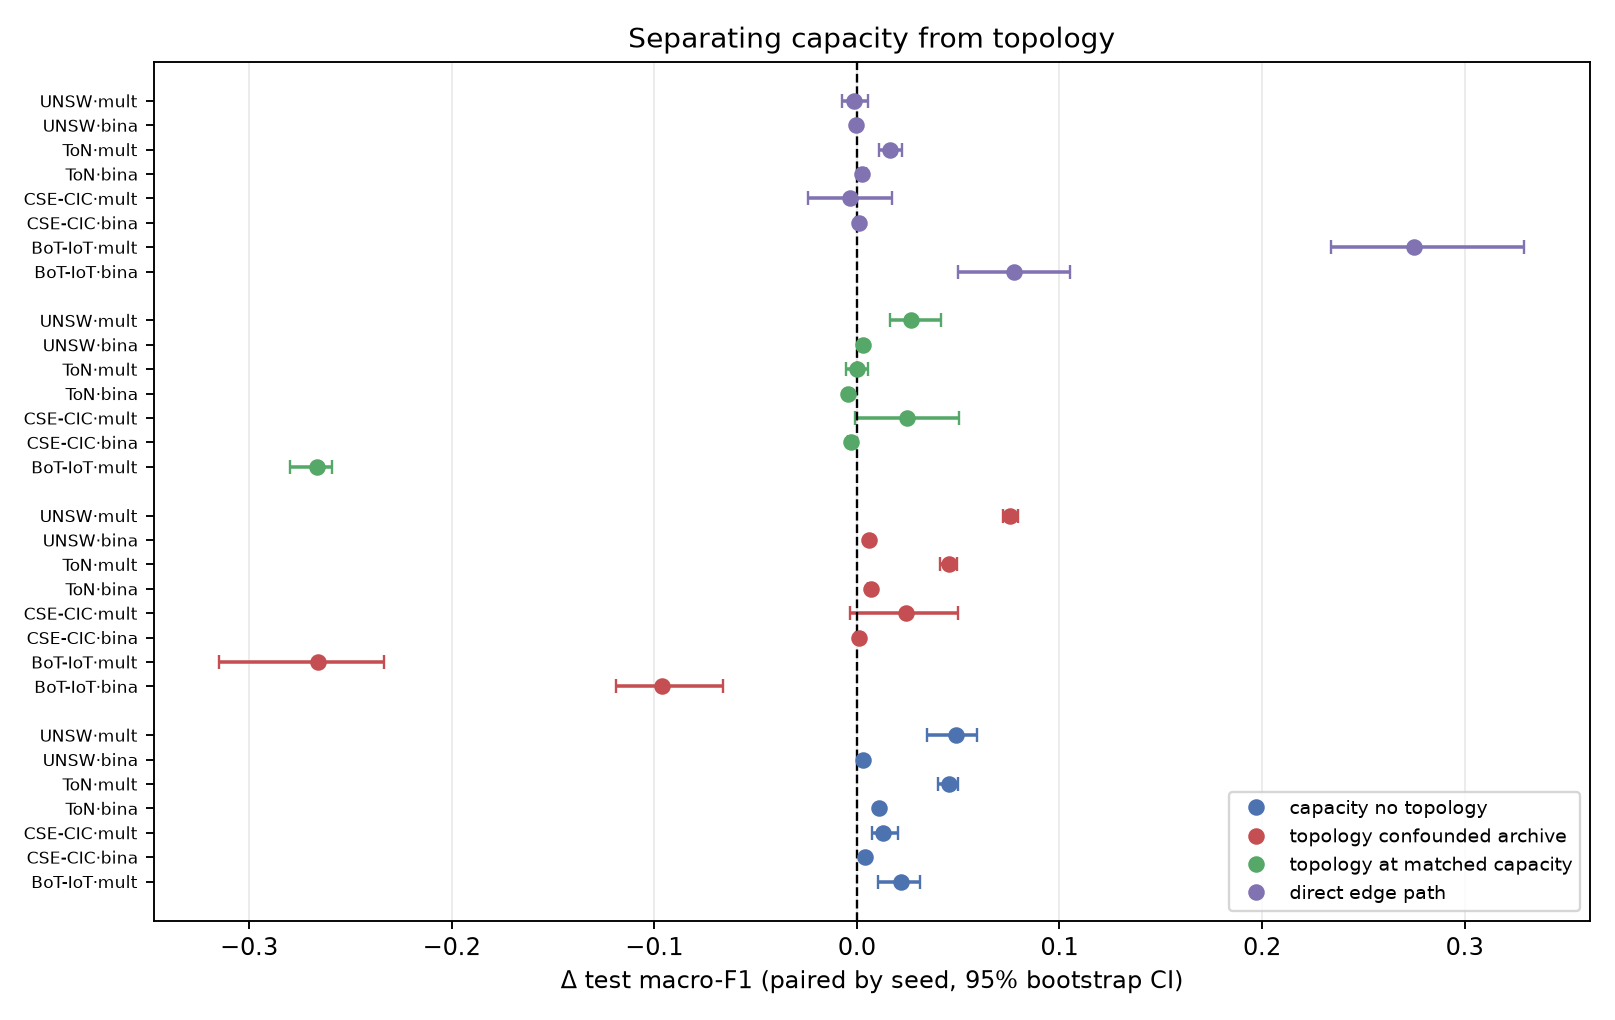
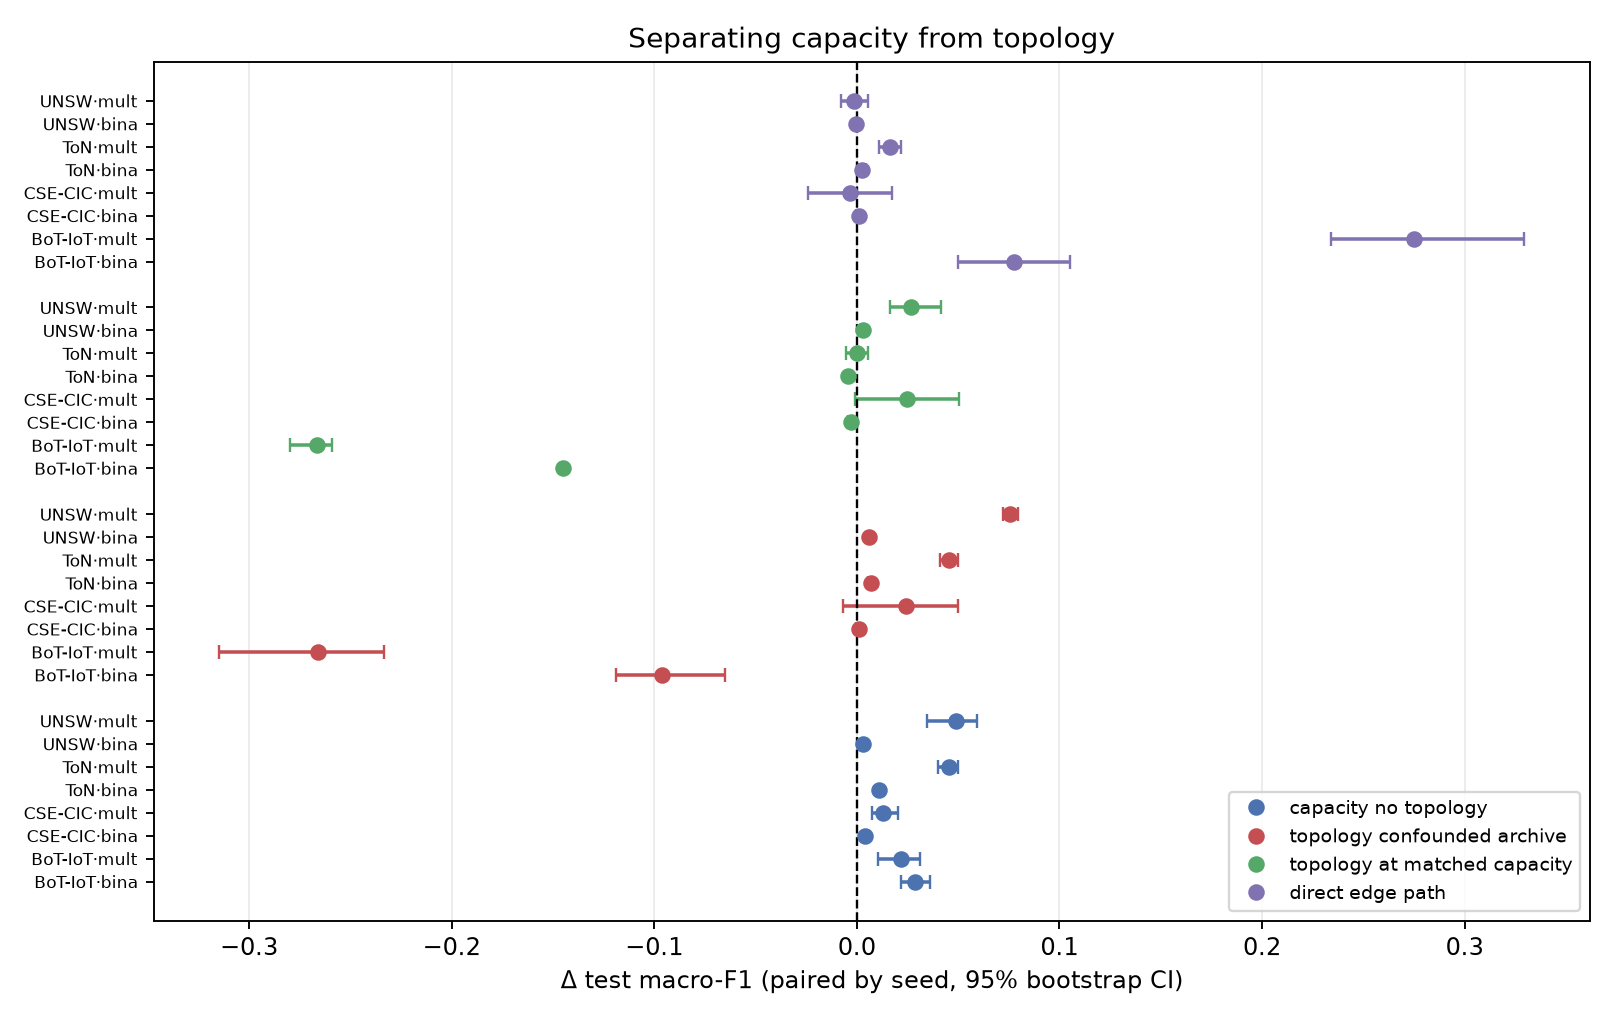
research(q4-2026): BoT-IoT binary capacity cell and TN-5 replication on ToN-IoT
TN-1 BoT-IoT binary, capacity-matched flow-only MLP (88,462 params, no message
passing): 0.9488 and 0.9362 (2 of 3 seeds) against sage_edge 0.8818, edge_mlp 0.9003
and the collapsing topology-only sage 0.8043. Together with the multiclass cell
(0.8364 vs sage_edge 0.8260) this makes NF-BoT-IoT-v2 the dataset where a model that
never aggregates a neighbour is the best model on BOTH tasks while the message-passing
configuration collapses on 4/5 multiclass and 5/5 binary seeds.

TN-5 now replicates outside UNSW. On NF-ToN-IoT-v2 multiclass the flow-only MLP plus
five train-only neighbourhood count features reaches 0.8188 (n=3) against sage_edge
0.7658, sage 0.7494 and the capacity-matched flow-only MLP 0.7494: +0.053 over the best
graph variant and +0.069 over capacity alone. Two datasets now agree that coarse
endpoint summaries carry more usable signal than two hops of mean aggregation.

Also freed 5.4 GB of regenerable scratch (endpoint splits, holdout features) after the
disk reached 99%; the handover report records exactly how to rebuild them.

diff --git a/research_q4_2026/reports/04_MANUSCRIPT_DRAFT_EN.md b/research_q4_2026/reports/04_MANUSCRIPT_DRAFT_EN.md
@@ -262,7 +262,7 @@ flow-only baseline. Full matrix `[PENDING: CSE-CIC and BoT-IoT still running]`:
 | ToN · multiclass | 0.704 | **0.749** | **0.749** | 0.766 | **0.866** | `[PENDING]` | `[PENDING]` |
 | ToN · binary | 0.971 | `[PENDING]` | 0.977 | 0.980 | `[PENDING]` | `[PENDING]` | `[PENDING]` |
 | CSE-CIC · mc/bin | 0.669 / 0.984 | 0.674 / 0.988 | 0.693 / 0.985 | 0.689 / 0.986 | `[PENDING]` | — | — |
-| BoT-IoT · mc/bin | 0.817 / 0.900 | **0.836** / `[PENDING]` | 0.551 / 0.804 | 0.826 / 0.882 | `[PENDING]` | — | — |
+| BoT-IoT · mc/bin | 0.817 / 0.900 | **0.836 / 0.949** | 0.551 / 0.804 | 0.826 / 0.882 | `[PENDING]` | — | — |
 
 Established so far (paired by seed, 95% bootstrap CI):
 
@@ -280,10 +280,13 @@ Established so far (paired by seed, 95% bootstrap CI):
   reproduces a significant part of the apparent graph advantage in every completed cell
   (+0.003 to +0.049 macro-F1, all 95% intervals excluding zero).
 - **On NF-BoT-IoT-v2 the flow-only model is simply better.** The capacity-matched MLP reaches
-  0.836 macro-F1, above `sage_edge` (0.826) and far above the topology-only `sage` (0.551),
-  which collapses on 4 of 5 multiclass seeds and 5 of 5 binary seeds. A model with the same
-  parameter count that never aggregates a neighbour trains stably and wins, so the collapse is
-  a property of the message-passing configuration, not of the data or the budget.
+  0.836 macro-F1 on multiclass (above `sage_edge` 0.826 and far above the topology-only `sage`
+  0.551) and **0.949 on binary** (above `sage_edge` 0.882, `edge_mlp` 0.900 and `sage` 0.804).
+  The topology-only variant collapses on 4 of 5 multiclass seeds and 5 of 5 binary seeds on
+  this dataset. A model with the same parameter count that never aggregates a neighbour
+  trains stably and wins on both tasks, so the collapse is a property of the message-passing
+  configuration, not of the data or the budget. The topology contrast at matched capacity on
+  NF-BoT-IoT-v2 multiclass is **−0.267 (95% CI [−0.280, −0.259])**.
 - **What survives capacity matching depends on the dataset.** On UNSW multiclass a small
   structural increment survives (+0.027); on ToN multiclass the residual is indistinguishable
   from zero. We therefore report this as a dataset-dependent association, not a general
